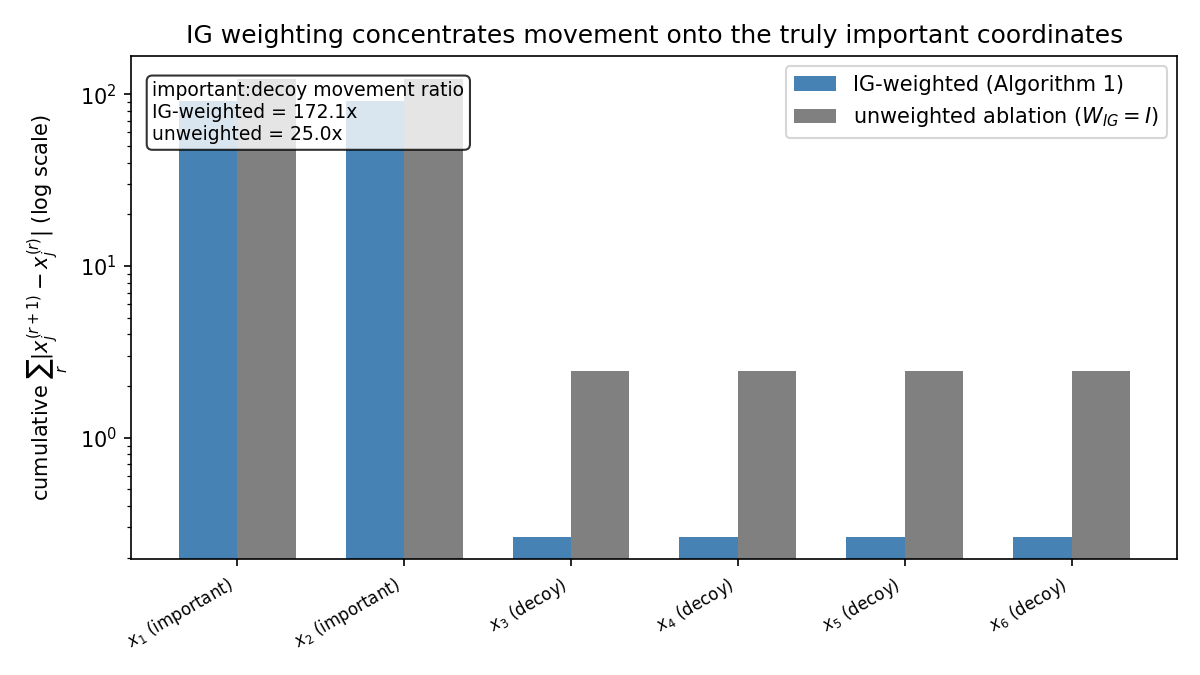
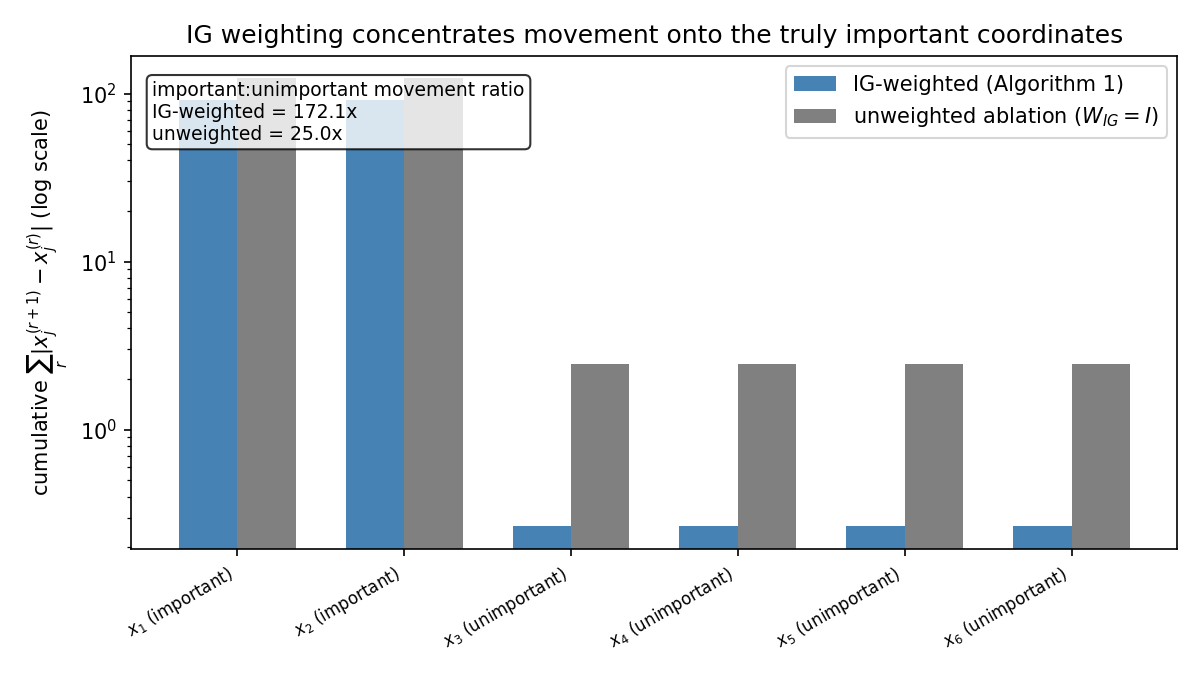
Update: results

diff --git a/sim/ig_attribution_exp.py b/sim/ig_attribution_exp.py
@@ -30,7 +30,7 @@ os.makedirs(FIG_DIR, exist_ok=True)
 
 C = torch.tensor([5.0, 5.0, 0.1, 0.1, 0.1, 0.1])
 P = len(C)
-LABELS = [f"$x_{j+1}$" + (" (important)" if C[j] >= 1.0 else " (decoy)") for j in range(P)]
+LABELS = [f"$x_{j+1}$" + (" (important)" if C[j] >= 1.0 else " (unimportant)") for j in range(P)]
 
 
 def f(x):
@@ -115,7 +115,7 @@ def _fig_coordinate_movement(x0, hist_weighted, hist_unweighted):
 
     ratio_w = move_w[:2].sum() / move_w[2:].sum()
     ratio_u = move_u[:2].sum() / move_u[2:].sum()
-    ax.text(0.02, 0.95, f"important:decoy movement ratio\nIG-weighted = {ratio_w:.1f}x\nunweighted = {ratio_u:.1f}x",
+    ax.text(0.02, 0.95, f"important:unimportant movement ratio\nIG-weighted = {ratio_w:.1f}x\nunweighted = {ratio_u:.1f}x",
             transform=ax.transAxes, fontsize=9, va="top",
             bbox=dict(boxstyle="round", fc="white", alpha=0.8))
     print(f"[ig_attr] important:decoy movement ratio -- IG-weighted={ratio_w:.2f}x, unweighted={ratio_u:.2f}x")

diff --git a/sim/budget_exp.py b/sim/budget_exp.py
@@ -195,7 +195,7 @@ def _fig_concentration(x0, results):
     idx = np.arange(len(names))
     width = 0.35
     ax.bar(idx - width / 2, imp_move, width, label=f"{N_IMPORTANT} important coords", color="steelblue")
-    ax.bar(idx + width / 2, dec_move, width, label=f"{P - N_IMPORTANT} decoy coords", color="lightgray",
+    ax.bar(idx + width / 2, dec_move, width, label=f"{P - N_IMPORTANT} unimportant coords", color="lightgray",
            edgecolor="gray")
     ax.set_xticks(idx)
     ax.set_xticklabels([METHOD_LABELS[n] for n in names], rotation=30, ha="right", fontsize=8)
